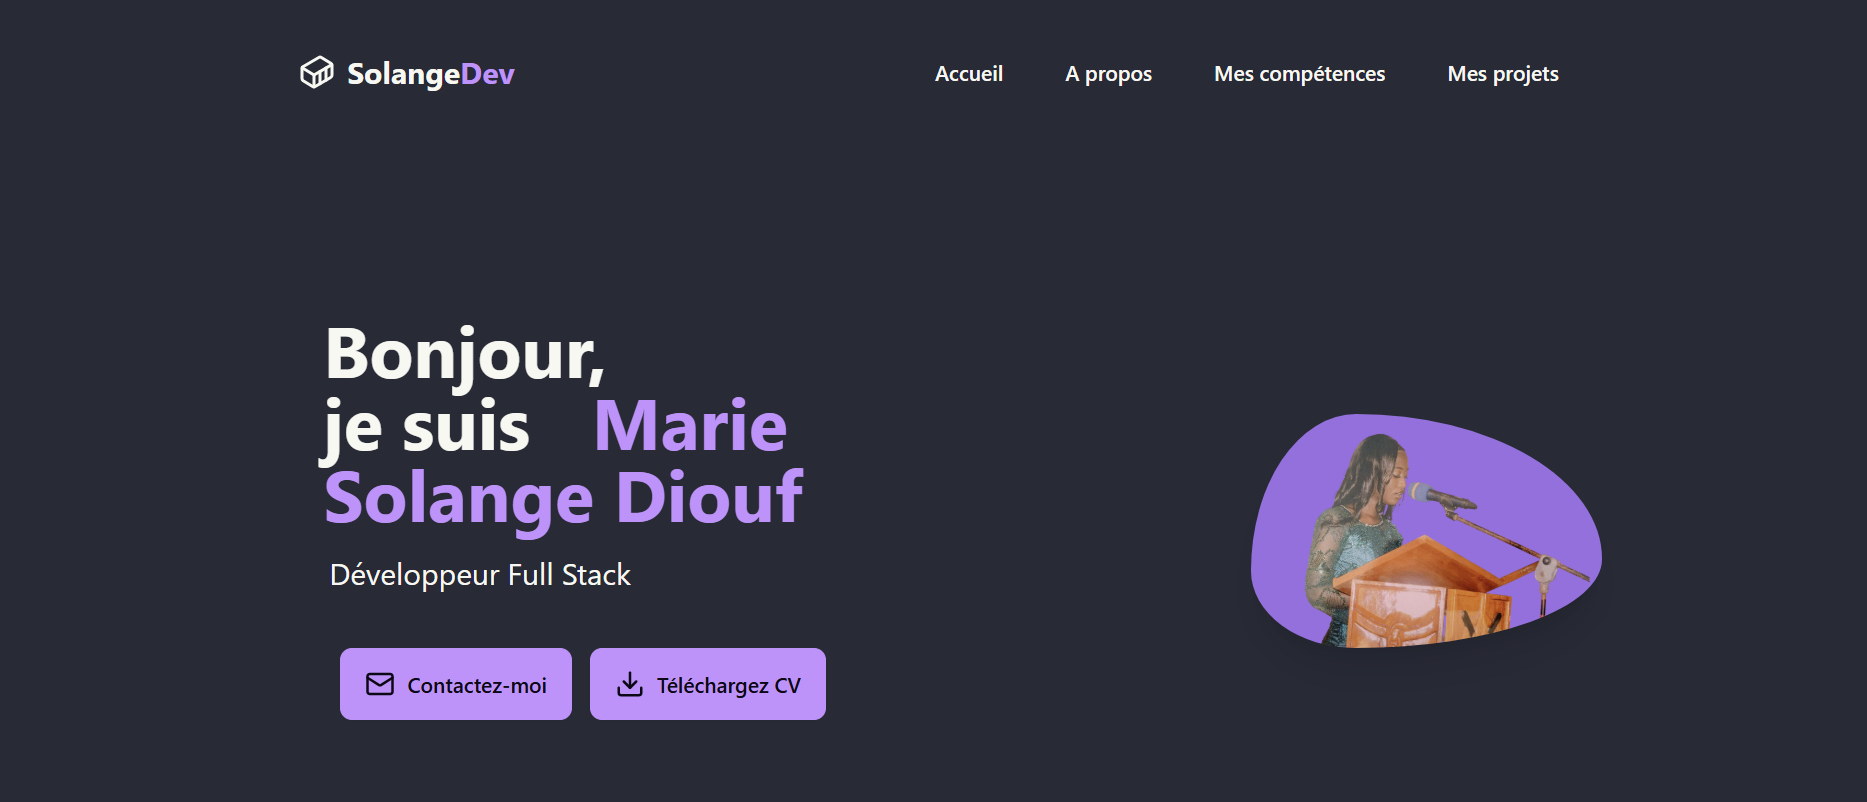
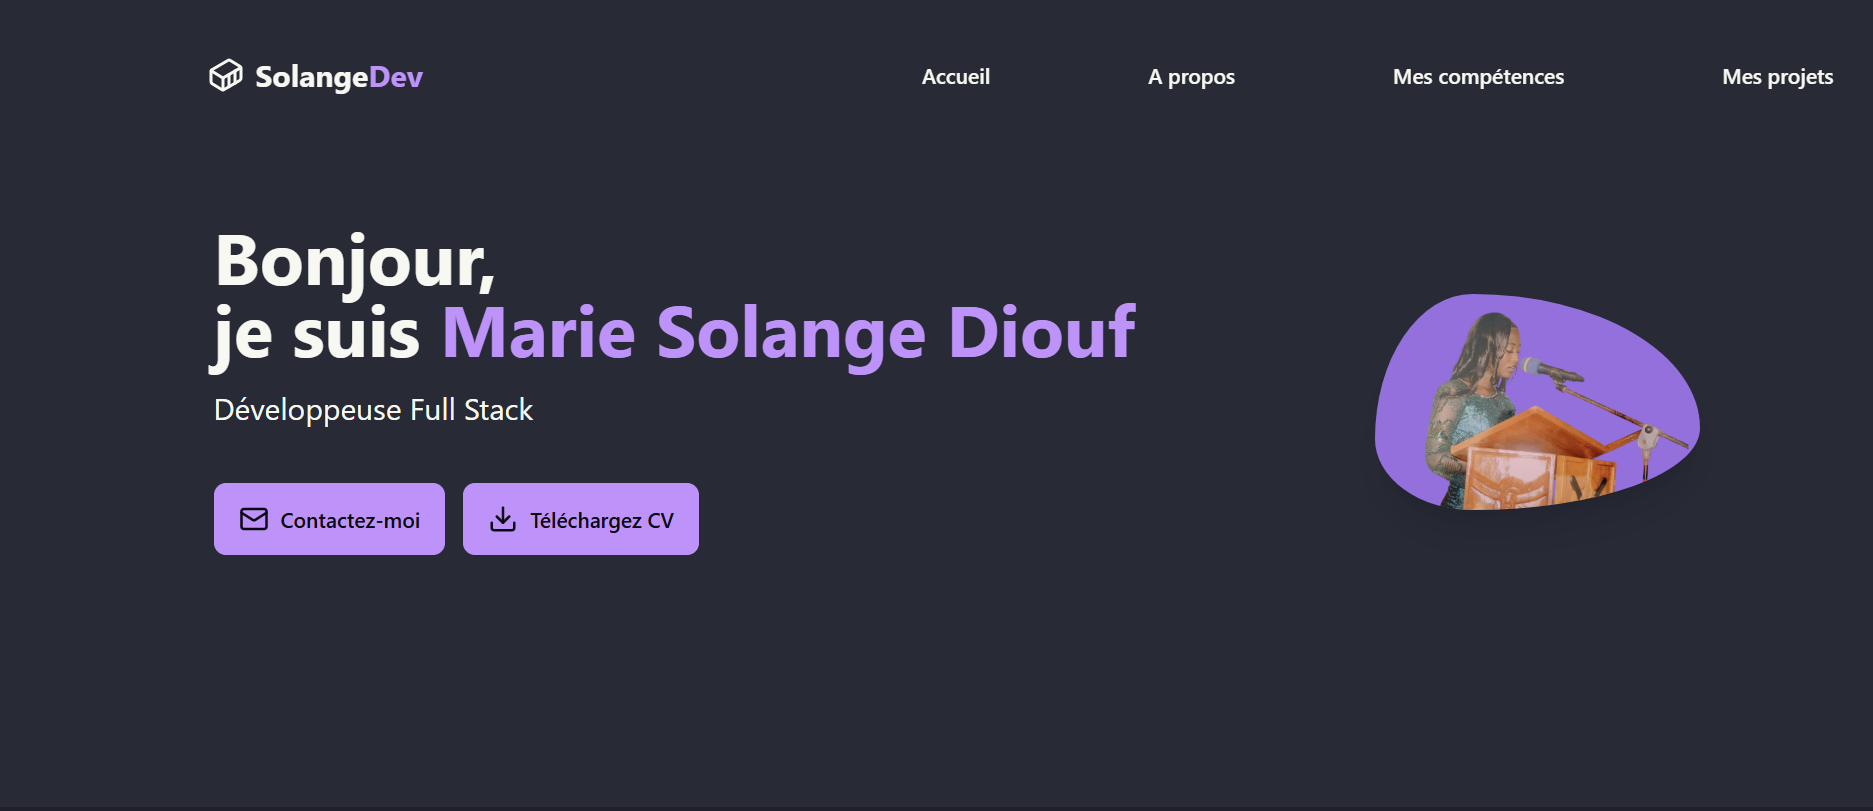
8eme  commit

diff --git a/src/components/Home.jsx b/src/components/Home.jsx
@@ -9,21 +9,21 @@ export default function Home() {
   
   return (
     <div className="flex flex-col-reverse 
-    md:flex-row justify-center items-center md:my-32 my-10" id="Accueil">
+    md:flex-row justify-center items-center md:my-32 my-16" id="Accueil">
 
         <div className="flex flex-col justify-end md:justify-start"> 
-            <h1 className="text-4xl md:text-5xl font-bold text-center  md:text-left md:ml-1 mt-4 md:mt-0">Bonjour,<br />je suis {" "}
+            <h1 className="text-4xl md:text-5xl font-bold text-center md:text-left md:ml-5 mt-4 md:mt-0 md:whitespace-nowrap">Bonjour,<br />je suis {" "}
             <span className="text-secondary ">Marie Solange Diouf</span>
             </h1>
 
-            <p className="my-4 text-xl text-center md:text-left ">Développeur Full Stack</p>
+            <p className="my-4 text-xl text-center md:text-left md:ml-5 ">Développeuse Full Stack</p>
 
-           <div className="flex flew-row ">
-            <a href="mailto:soldesanges88@gmail.com" className="my-5 btn btn-secondary md:w-fit  ">
+           <div className="flex flew-row ml-12 md:ml-0">
+            <a href="mailto:soldesanges88@gmail.com" className="my-5 btn btn-secondary md:w-fit  ml-5">
              <Mail className="w-5 h-5" />
              Contactez-moi
             </a>
-            <a href="/CV/CV_MARIE_SOLANGE_DIOUF.pdf" className="my-5 btn btn-secondary md:w-fit ml-3">
+            <a href="/CV/CV_MARIE_SOLANGE_DIOUF.pdf" className="my-5 btn btn-secondary md:w-fit ml-3 ">
              <Download  className="w-5 h-5"/>
              Téléchargez CV
             </a>
@@ -32,7 +32,7 @@ export default function Home() {
 
         </div>
      
-        <div className="md:ml-60">
+        <div className="md:ml-40">
             <img src={img} alt="" className=" w-96 h-110 object-cover
             boder-8 border-secondary shadow-xl"
             style={{

diff --git a/src/components/Projects.jsx b/src/components/Projects.jsx
@@ -12,6 +12,7 @@ const projects=[
     {
         id:1,
         title:'Porfolio',
+        description:'sss a',
         technologies:['Html','CSS','JS'],
         demoLink:'#',
         repoLink:'#',
@@ -20,6 +21,7 @@ const projects=[
     {
         id:2,
         title:'Porfolio',
+        description:'sss',
         technologies:['React','Tailwind CSS'],
         demoLink:'#',
         repoLink:'#',
@@ -28,6 +30,7 @@ const projects=[
     {
         id:3,
         title:'Gestionnaire de tache',
+        description:'sss',
         technologies:['React','Node.js','Tailwind CSS'],
         demoLink:'#',
         repoLink:'#',
@@ -51,6 +54,7 @@ export default function Projects() {
              <div>
                <h1 className="my-2 font-bold">{project.title}</h1>     {/* Assuming title property exists */}
              </div>
+             <p className="text-sm">{project.description}</p>
             
              <div className="flex flex-wrap gap-2 my-3">
                {project.technologies.map((tech) => (

diff --git a/src/components/Navbar.jsx b/src/components/Navbar.jsx
@@ -2,13 +2,14 @@ import { Container } from "lucide-react"
 
 export default function Navbar() {
   return (
-    <div className="flex justify-center md:justify-between items-center p-4 ">
-        <a href="#" className="flex items-center font-bold text-3xl md:text-xl ">
+    <div className="flex justify-center md:justify-between items-center p-4 fixed ">
+        <a href="#" className="flex items-center font-bold text-3xl md:text-xl  ">
         <Container className="mr-2" />
         Solange<span className="text-secondary">Dev</span>
         </a>
         
-        <ul className="hidden md:flex space-x-4 ">
+       <div className="md:pl-80">
+        <ul className="hidden md:flex space-x-20 ">
             <li>
                 <a href="#Accueil" className="btn btn-sm btn-ghost">Accueil</a>
             </li>
@@ -22,6 +23,8 @@ export default function Navbar() {
             </li>
 
         </ul>
+        </div>
+       
         
     </div>
    

diff --git a/src/App.jsx b/src/App.jsx
@@ -9,7 +9,7 @@ export default function App() {
   return (
     <div >
 
-      <div className="p-5 md:px-[15%]">
+      <div className="p-5 md:px-[10%]">
        <Navbar/>
        <Home/>
       </div> 
